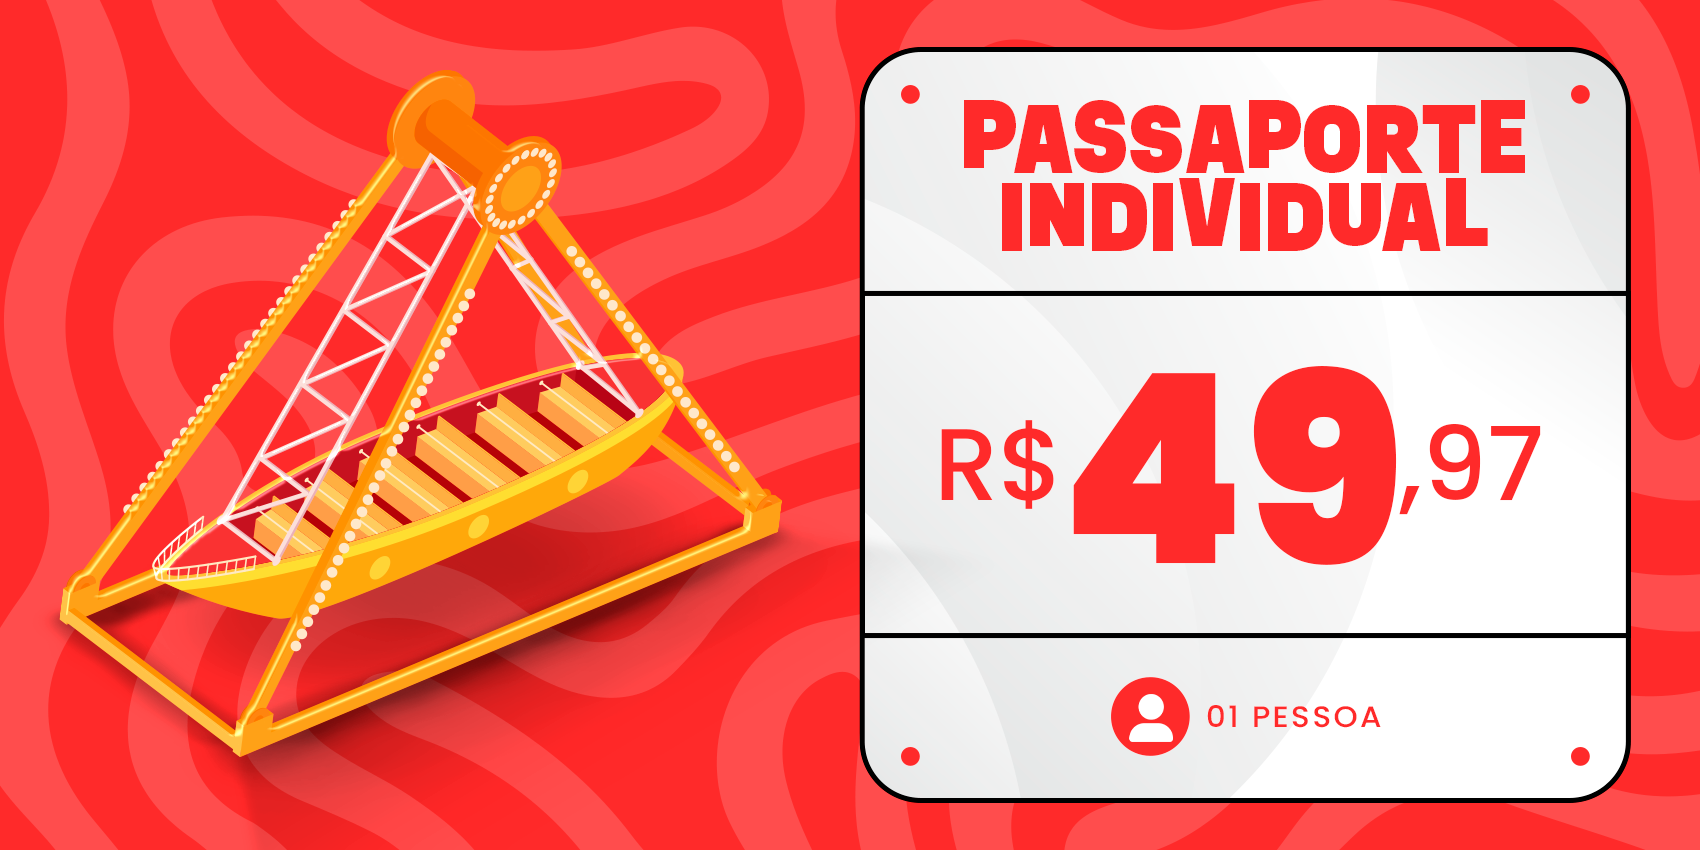
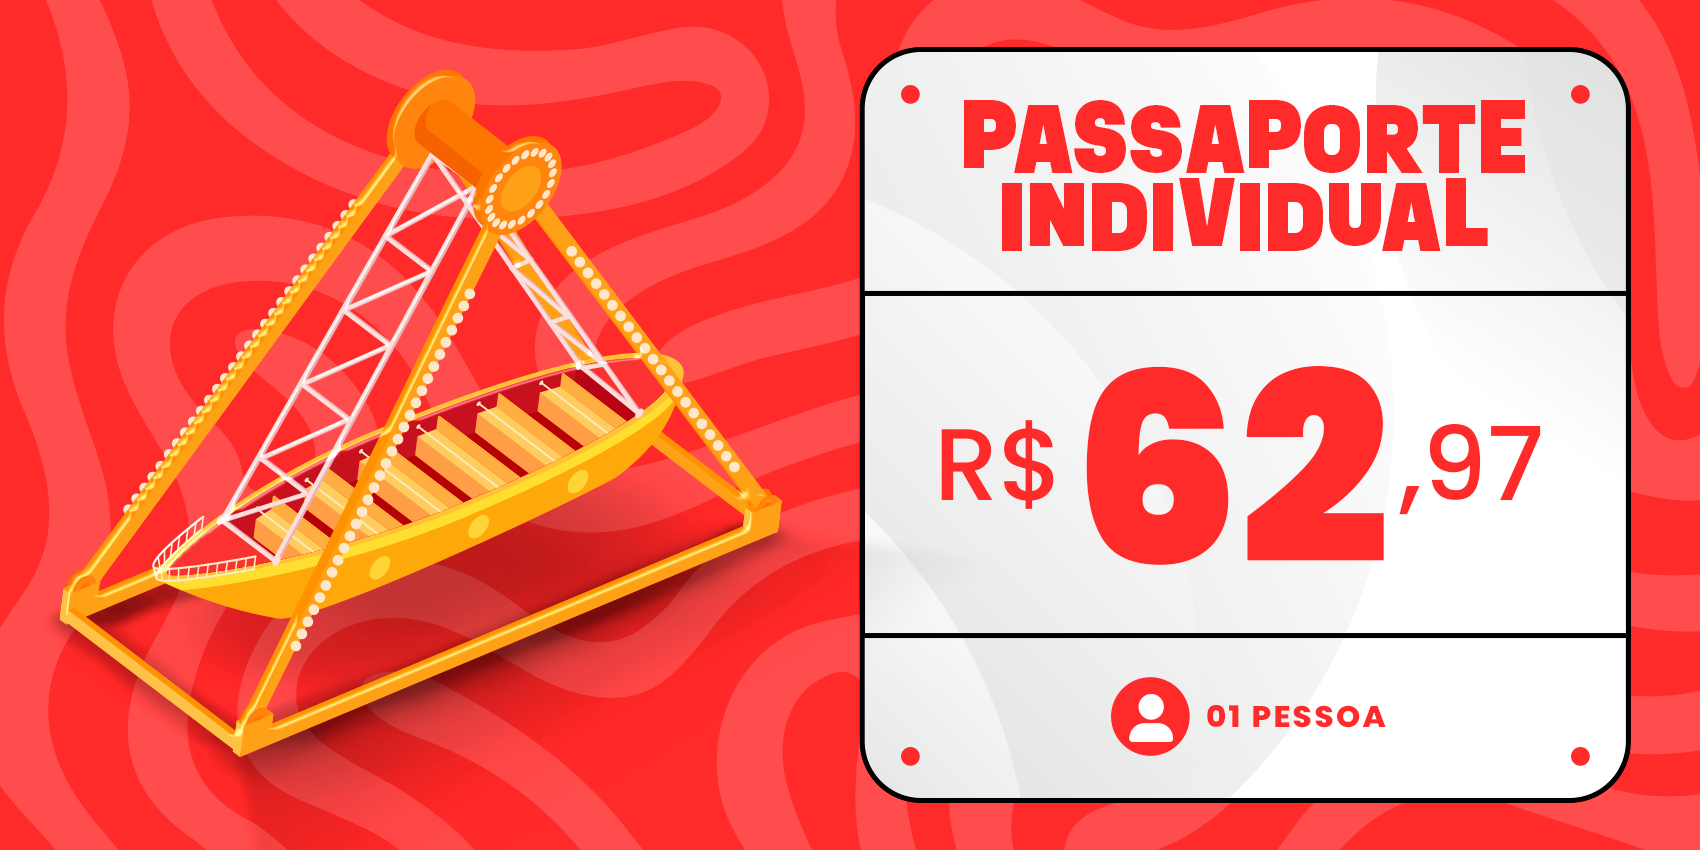
feat: change passaports prices

Changed region(s): [[0.6235, 0.4282, 0.8418, 0.6729], [0.7171, 0.8259, 0.8106, 0.8565], [0.7794, 0.4282, 0.8106, 0.4588]]

diff --git a/src/components/organisms/Tickets.tsx b/src/components/organisms/Tickets.tsx
@@ -94,21 +94,21 @@ export default function Tickets() {
             <Ticket
               id={2}
               name="Passaporte Individual"
-              price={4997}
+              price={6297}
               banner={PassaporteIndividual}
               quantity={1}
-              reference={4997}
+              reference={6297}
               isPassport
             />
           </SwiperSlide>
-          {/* <SwiperSlide>
+          <SwiperSlide>
             <Ticket
               id={3}
               name="Combo Encantado"
-              price={14297}
+              price={11597}
               banner={ComboEncantado}
               quantity={2}
-              reference={7697}
+              reference={6297}
               isPassport
             />
           </SwiperSlide>
@@ -116,13 +116,13 @@ export default function Tickets() {
             <Ticket
               id={4}
               name="Combo Espetacular"
-              price={19797}
+              price={15797}
               banner={ComboEspetacular}
               quantity={3}
-              reference={7697}
+              reference={6297}
               isPassport
             />
-          </SwiperSlide> */}
+          </SwiperSlide>
         </>
       )}
     </Swiper>
